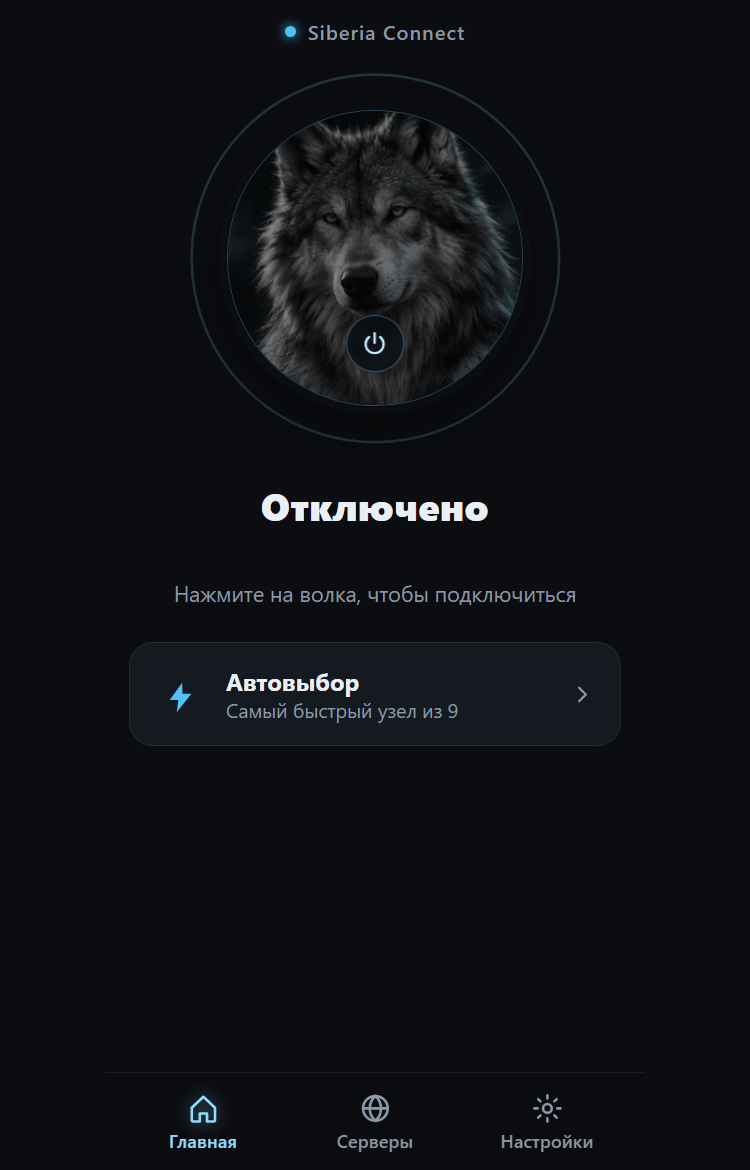
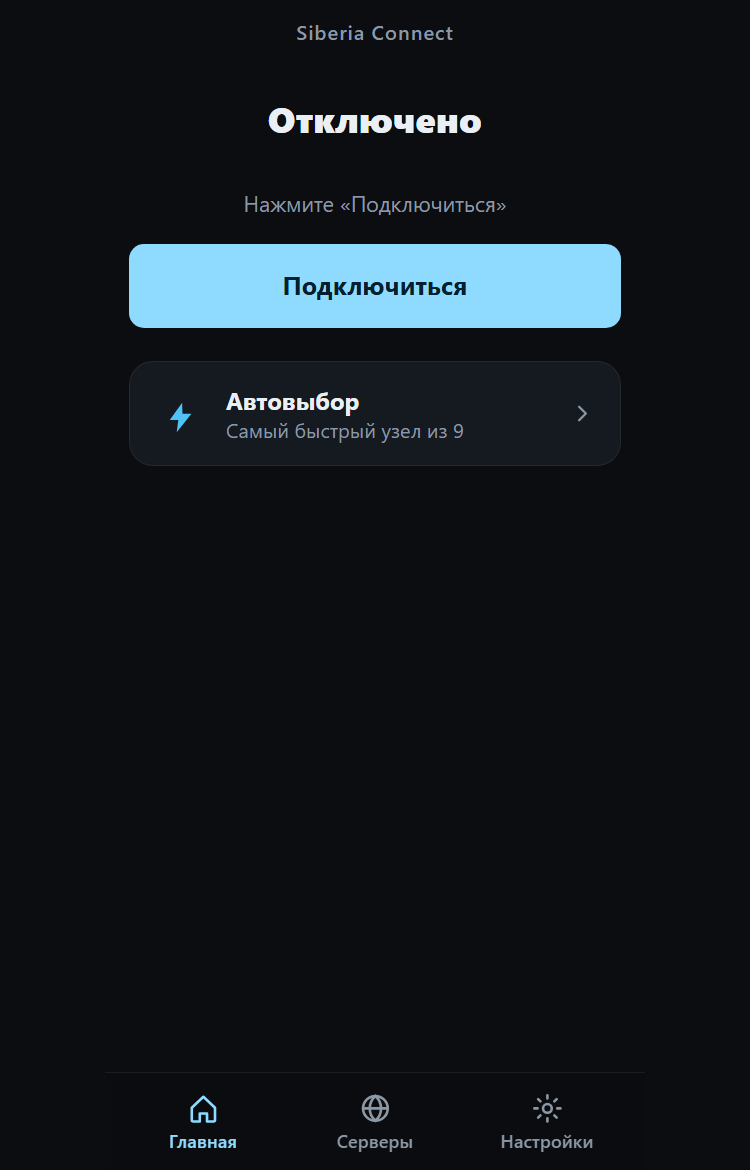
feat(android/ice): простая кнопка «Подключиться» вместо круга с волком и кольца
Статус над кнопкой, строка сервера под ней; «Отменить» / «Отключиться» / «Повторить»,
размер и место кнопки одинаковы во всех состояниях. Логика VPN не менялась.

diff --git a/V2rayNG/app/src/icetest/assets/ice/index.html b/V2rayNG/app/src/icetest/assets/ice/index.html
@@ -19,9 +19,8 @@ html,body{margin:0;background:var(--bg);color:var(--tx);font-family:system-ui,-a
 button{font:inherit;color:inherit;background:none;border:0;padding:0;margin:0;text-align:inherit;cursor:pointer}
 button:focus-visible,input:focus-visible{outline:2px solid var(--ice);outline-offset:2px}
 .app{max-width:560px;margin:0 auto;min-height:100vh;padding:.75rem 1rem calc(5.5rem + env(safe-area-inset-bottom,0px));position:relative}
-.app::before{content:"";position:fixed;inset:0;pointer-events:none;z-index:-1;
-  background:radial-gradient(70% 38% at 50% 0%,rgba(79,195,247,.13),transparent 70%),radial-gradient(60% 30% at 50% 100%,rgba(79,195,247,.06),transparent 70%)}
 .screen{display:none}.screen.on{display:block;animation:fade .22s ease}
+@keyframes spin{to{transform:rotate(360deg)}}
 @keyframes fade{from{opacity:.4;transform:translateY(4px)}to{opacity:1;transform:none}}
 h1{font-size:1.35rem;margin:.25rem 0 .75rem;font-weight:700;letter-spacing:.2px}
 h2{font-size:.78rem;font-weight:700;letter-spacing:.09em;text-transform:uppercase;color:var(--mut);margin:1.4rem .25rem .5rem}
@@ -29,38 +28,20 @@ h2{font-size:.78rem;font-weight:700;letter-spacing:.09em;text-transform:uppercas
 
 /* ───── главная ───── */
 .brand{display:flex;align-items:center;gap:.5rem;color:var(--mut);font-size:.85rem;font-weight:600;letter-spacing:.04em;justify-content:center;margin-bottom:.25rem}
-.brand i{display:inline-block;width:.45rem;height:.45rem;border-radius:50%;background:var(--ice2);box-shadow:0 0 8px var(--ice2)}
-.hero{display:flex;flex-direction:column;align-items:center;text-align:center;padding-top:.5rem}
-.ringwrap{position:relative;width:min(72vw,17.5rem);aspect-ratio:1;display:grid;place-items:center}
-.ring{position:absolute;inset:0;width:100%;height:100%;overflow:visible}
-.ring .base{fill:none;stroke:var(--iceDim);stroke-width:1.5;transition:stroke .5s}
-.ring .arc{fill:none;stroke:url(#ig);stroke-width:2.2;stroke-linecap:round;stroke-dasharray:0 653;opacity:0;transition:stroke-dasharray .7s ease,opacity .5s;transform-origin:110px 110px;filter:drop-shadow(0 0 6px rgba(143,219,255,.55))}
-.ringwrap[data-s=connecting] .arc{opacity:1;stroke-dasharray:190 463;animation:spin 2.6s linear infinite}
-.ringwrap[data-s=on] .arc{opacity:1;stroke-dasharray:653 0;animation:breathe 5s ease-in-out infinite}
-.ringwrap[data-s=error] .base{stroke:rgba(240,195,106,.55)}
-@keyframes spin{to{transform:rotate(360deg)}}
-@keyframes breathe{0%,100%{opacity:.75;filter:drop-shadow(0 0 4px rgba(143,219,255,.35))}50%{opacity:1;filter:drop-shadow(0 0 9px rgba(143,219,255,.7))}}
-.orb{position:relative;width:76%;aspect-ratio:1;border-radius:50%;overflow:hidden;background:#06121f;border:1px solid rgba(143,219,255,.25);
-  box-shadow:0 0 0 .35rem var(--bg),0 10px 40px rgba(0,0,0,.55);transition:box-shadow .5s,transform .15s}
-.orb:active{transform:scale(.97)}
-.orb img{width:100%;height:100%;object-fit:cover;transform:scale(1.2);display:block;transition:filter .6s;filter:saturate(.3) brightness(.55)}
-.ringwrap[data-s=connecting] .orb img{filter:saturate(.7) brightness(.8)}
-.ringwrap[data-s=on] .orb img{filter:saturate(1.05) brightness(1.05)}
-.ringwrap[data-s=on] .orb{box-shadow:0 0 0 .35rem var(--bg),0 0 38px rgba(79,195,247,.38)}
-.ringwrap[data-s=error] .orb img{filter:saturate(.35) brightness(.6) sepia(.4)}
-.orb .pw{position:absolute;left:50%;bottom:11%;transform:translateX(-50%);width:2.4rem;height:2.4rem;border-radius:50%;display:grid;place-items:center;
-  background:rgba(8,14,20,.78);border:1px solid rgba(143,219,255,.35);backdrop-filter:blur(2px)}
-.orb .pw svg{width:1.2rem;height:1.2rem}
-.st{font-size:1.6rem;font-weight:800;margin-top:1.15rem;letter-spacing:.2px}
+.hero{display:flex;flex-direction:column;align-items:stretch;padding-top:.5rem}
+.stat{text-align:center;padding:1.25rem .5rem .5rem;min-height:7.5rem}
+.cta{display:block;width:100%;height:3.5rem;border-radius:10px;background:var(--ice);color:#04202E;font-size:1.05rem;font-weight:700;text-align:center;line-height:1.2;padding:0 1rem;border:0}
+.cta:active{background:#7ccdf2}
+.st{font-size:1.5rem;font-weight:800;letter-spacing:.2px}
 .st.on{color:var(--ice)}.st.error{color:var(--warn)}
 .tm{font-variant-numeric:tabular-nums;font-size:1.15rem;color:var(--tx);margin-top:.2rem;min-height:1.6rem;letter-spacing:.06em}
-.hint{color:var(--mut);font-size:.9rem;margin-top:.15rem;max-width:22rem;min-height:1.25rem}
+.hint{color:var(--mut);font-size:.9rem;margin:.15rem auto 0;max-width:22rem;min-height:1.25rem}
 .err{margin-top:.75rem;padding:.75rem .9rem;border-radius:var(--r);background:rgba(240,195,106,.09);border:1px solid rgba(240,195,106,.28);
   color:#F6DDA6;font-size:.92rem;text-align:left;width:100%}
 .err .code{display:block;margin-top:.35rem;color:var(--mut);font-size:.8rem}
 .err .acts{display:flex;flex-wrap:wrap;gap:.5rem;margin-top:.65rem}
 .btn{display:inline-flex;align-items:center;justify-content:center;text-align:center;gap:.4rem;min-height:2.75rem;padding:.55rem 1.1rem;border-radius:999px;
-  font-weight:700;font-size:.95rem;background:linear-gradient(180deg,#9AE0FF,#58C8F8);color:#05202F;line-height:1.2}
+  font-weight:700;font-size:.95rem;background:var(--ice);color:#05202F;line-height:1.2}
 .btn.ghost{background:var(--panel2);color:var(--tx);border:1px solid var(--line);font-weight:600}
 .btn.small{min-height:2.4rem;padding:.4rem .95rem;font-size:.88rem}
 .btn[disabled]{opacity:.5}
@@ -140,7 +121,6 @@ h2{font-size:.78rem;font-weight:700;letter-spacing:.09em;text-transform:uppercas
 .nav button svg{width:1.45rem;height:1.45rem}
 .nav button span{font-size:.76rem;font-weight:600;line-height:1.15;overflow-wrap:break-word;word-break:normal;hyphens:manual;max-width:100%}
 .nav button.on{color:var(--ice)}
-.nav button.on svg{filter:drop-shadow(0 0 6px rgba(143,219,255,.6))}
 
 /* ───── шторка, тост ───── */
 .shade{position:fixed;inset:0;background:rgba(0,0,0,.6);z-index:40;display:none}
@@ -188,7 +168,6 @@ h2{font-size:.78rem;font-weight:700;letter-spacing:.09em;text-transform:uppercas
     <symbol id="i-home" viewBox="0 0 24 24"><path d="M4 11.5 12 4l8 7.5V20a1 1 0 0 1-1 1h-4.5v-5.5h-5V21H5a1 1 0 0 1-1-1z" fill="none" stroke="currentColor" stroke-width="1.8" stroke-linejoin="round"/></symbol>
     <symbol id="i-globe" viewBox="0 0 24 24"><g fill="none" stroke="currentColor" stroke-width="1.8" stroke-linecap="round"><circle cx="12" cy="12" r="8.5"/><path d="M3.5 12h17M12 3.5c2.6 2.4 3.9 5.2 3.9 8.5S14.600 18.100 12 20.500C9.400 18.100 8.100 15.300 8.100 12S9.400 5.900 12 3.500z"/></g></symbol>
     <symbol id="i-gear" viewBox="0 0 24 24"><g fill="none" stroke="currentColor" stroke-width="1.8" stroke-linecap="round" stroke-linejoin="round"><circle cx="12" cy="12" r="3"/><path d="M12 3v2.2M12 18.8V21M3 12h2.2M18.800 12H21M5.600 5.600l1.600 1.600M16.800 16.800l1.600 1.600M5.600 18.400l1.600-1.600M16.800 7.200l1.600-1.600"/></g></symbol>
-    <symbol id="i-power" viewBox="0 0 24 24"><g fill="none" stroke="#BFEAFF" stroke-width="2" stroke-linecap="round"><path d="M12 3.500v8"/><path d="M7.400 6.700a7.500 7.500 0 1 0 9.200 0"/></g></symbol>
     <symbol id="i-bolt" viewBox="0 0 24 24"><path d="M13 2.5 5 13.500h5.500L9.500 21.500 19 9.500h-5.800z" fill="currentColor"/></symbol>
     <symbol id="i-chev" viewBox="0 0 24 24"><path d="m9 6 6 6-6 6" fill="none" stroke="currentColor" stroke-width="2" stroke-linecap="round" stroke-linejoin="round"/></symbol>
     <symbol id="i-refresh" viewBox="0 0 24 24"><g fill="none" stroke="currentColor" stroke-width="2" stroke-linecap="round" stroke-linejoin="round"><path d="M20 12a8 8 0 1 1-2.500-5.800"/><path d="M20 4v4.500h-4.500"/></g></symbol>
@@ -198,26 +177,18 @@ h2{font-size:.78rem;font-weight:700;letter-spacing:.09em;text-transform:uppercas
 <div class="app" id="app">
 
   <section class="screen on" id="s-home" aria-label="Главная">
-    <div class="brand"><i></i>Siberia Connect</div>
+    <div class="brand">Siberia Connect</div>
     <div class="hero">
-      <div class="ringwrap" id="ringwrap" data-s="off">
-        <svg class="ring" viewBox="0 0 220 220" aria-hidden="true">
-          <defs><linearGradient id="ig" x1="0" y1="0" x2="1" y2="1"><stop offset="0" stop-color="#D5F4FF"/><stop offset="1" stop-color="#3FB8F5"/></linearGradient></defs>
-          <circle class="base" cx="110" cy="110" r="104"/>
-          <circle class="arc" id="arc" cx="110" cy="110" r="104"/>
-        </svg>
-        <button class="orb" id="orb" type="button" aria-label="Подключить">
-          <img id="wolf" alt="" src="" draggable="false">
-          <span class="pw"><svg><use href="#i-power"/></svg></span>
-        </button>
+      <div class="stat">
+        <div class="st" id="stTitle" role="status" aria-live="polite">Отключено</div>
+        <div class="tm" id="timer"></div>
+        <div class="hint" id="stHint"></div>
       </div>
-      <div class="st" id="stTitle" role="status" aria-live="polite">Отключено</div>
-      <div class="tm" id="timer"></div>
-      <div class="hint" id="stHint"></div>
-      <div class="err" id="errBox" hidden></div>
+      <button class="cta" id="cta" type="button">Подключиться</button>
     </div>
-    <div id="notice"></div>
     <button class="srv" id="srvRow" type="button"></button>
+    <div class="err" id="errBox" hidden></div>
+    <div id="notice"></div>
   </section>
 
   <section class="screen" id="s-servers" aria-label="Серверы"></section>
@@ -247,7 +218,6 @@ function plural(n,a,b,c){ var m=n%10,h=n%100; return (m===1&&h!==11)?a:(m>=2&&m<
 /* ───────── состояние ───────── */
 var S = { state:'off', err:'', since:0, off:0, servers:[], tab:'home', open:{}, lockUntil:0, switching:0, connAt:0,
           acct:'', incident:'', me:null, pingBusy:false, pingAt:0, build:null };
-var BASE = (nat('assetBase') || 'https://sc-assets.local/');
 
 /* ───────── узлы: флаг → страна, название ───────── */
 var CC = {NL:'Нидерланды',FI:'Финляндия',RU:'Россия',KZ:'Казахстан',DE:'Германия',SE:'Швеция',LV:'Латвия',AT:'Австрия',US:'США',LT:'Литва',
@@ -314,15 +284,14 @@ function syncState(){
 
 /* ───────── главная ───────── */
 function renderHome(){
-  var s=S.state, rw=$('ringwrap'); rw.setAttribute('data-s', s);
+  var s=S.state;
   var t=$('stTitle'); t.className='st '+(s==='on'?'on':s==='error'?'error':'');
   t.textContent = s==='on'?'Подключено':s==='connecting'?(S.switching?'Переключаю узел…':'Подключение…'):s==='error'?'Ошибка подключения':'Отключено';
-  var orb=$('orb');
-  orb.setAttribute('aria-label', s==='on'?'Отключить VPN':s==='connecting'?'Отменить подключение':'Подключить VPN');
+  var cta=$('cta'); cta.textContent = s==='on'?'Отключиться':s==='connecting'?'Отменить':s==='error'?'Повторить':'Подключиться';
   var cur = S.act || S.sel;
   var hint='';
-  if(s==='off') hint='Нажмите на волка, чтобы подключиться';
-  else if(s==='connecting') hint = (S.switching?'Подождите пару секунд':'Проверяем ключ и выбираем узел')+' · нажмите ещё раз, чтобы отменить';
+  if(s==='off') hint='Нажмите «Подключиться»';
+  else if(s==='connecting') hint = (S.switching?'Подождите пару секунд':'Проверяем ключ и выбираем узел')+'';
   else if(s==='on') hint = cur ? 'Трафик идёт через '+cur.country+(cur.title?' · '+cur.title:'') : 'Защищённое соединение установлено';
   else hint='';
   $('stHint').textContent=hint;
@@ -331,7 +300,7 @@ function renderHome(){
   if(s==='error'){
     eb.hidden=false;
     eb.innerHTML = esc(S.err)+(S.incident?'<span class="code">Код обращения: '+esc(S.incident)+'</span>':'')
-      +'<div class="acts"><button class="btn small" type="button" data-a="retry">Повторить</button><button class="btn small ghost" type="button" data-a="servers">Сменить сервер</button></div>';
+      +'<div class="acts"><button class="btn small ghost" type="button" data-a="servers">Сменить сервер</button></div>';
   } else eb.hidden=true;
 
   // карточка сервера
@@ -410,7 +379,7 @@ function renderServers(){
   }
   h+='<div class="cur"><span class="flag" aria-hidden="true" style="font-size:1.8rem">'+(S.autoOn&&!cur?'<svg><use href="#i-bolt"/></svg>':(cur?(cur.flag||'🌐'):'🌐'))+'</span><div><small>'+(on?'Подключено через':'Выбрано')+'</small><b>'
     +esc(S.autoOn&&!(on&&S.act)?'Автовыбор':(cur?cur.country+(cur.title?' · '+cur.title:''):'—'))+'</b>'
-    +(S.autoOn&&on&&S.act?'<span>Автовыбор · лучший из '+S.nodes.length+'</span>':(on?'':'<span>Нажмите на кнопку на главной, чтобы подключиться</span>'))+'</div></div>';
+    +(S.autoOn&&on&&S.act?'<span>Автовыбор · лучший из '+S.nodes.length+'</span>':(on?'':'<span>Нажмите «Подключиться» на главной</span>'))+'</div></div>';
   h+='<div class="list" role="radiogroup" aria-label="Выбор сервера">';
   if(S.auto){
     h+='<button type="button" class="item'+(S.autoOn?' sel':'')+'" data-pick="auto" role="radio" aria-checked="'+(S.autoOn?'true':'false')+'">'+'<span class="flag" aria-hidden="true"><svg><use href="#i-bolt"/></svg></span>'+'<div class="t"><b>Автовыбор</b><span>Самый быстрый узел из '+S.nodes.length+'</span></div>'+(S.autoOn?'<span class="badge soft">ВКЛЮЧЁН</span>':'')+'<span class="radio" aria-hidden="true"></span></button>';
@@ -440,7 +409,7 @@ function pick(guid){
   loadServers();
   if(was==='on'||was==='connecting'){ S.switching=Date.now()+12000; S.state='connecting'; S.connAt=Date.now(); }
   var nm = guid==='auto' ? 'Автовыбор' : ((S.nodes.filter(function(x){return x.guid===guid;})[0]||{}).country||'Сервер');
-  toast(was==='on'||was==='connecting' ? 'Переключаю на: '+nm : (nm+' выбран. Нажмите на волка, чтобы подключиться'));
+  toast(was==='on'||was==='connecting' ? 'Переключаю на: '+nm : (nm+' выбран. Нажмите «Подключиться»'));
   go('home');
 }
 function doPing(){
@@ -528,7 +497,7 @@ function refreshSub(){
 function openSheet(html){ $('sheet').innerHTML=html; $('sheet').classList.add('on'); $('shade').classList.add('on'); }
 function closeSheet(){ $('sheet').classList.remove('on'); $('shade').classList.remove('on'); appsState=null; }
 function openLogout(){
-  openSheet('<h3>Выйти из аккаунта?</h3><p>VPN отключится, ключ и список серверов удалятся с этого телефона. Войти снова можно по ключу или коду.</p><div class="acts"><button class="btn ghost" type="button" data-a="close">Отмена</button><button class="btn" type="button" data-a="logoutGo" style="background:linear-gradient(180deg,#FFB0B0,#FF7C7C)">Выйти</button></div>');
+  openSheet('<h3>Выйти из аккаунта?</h3><p>VPN отключится, ключ и список серверов удалятся с этого телефона. Войти снова можно по ключу или коду.</p><div class="acts"><button class="btn ghost" type="button" data-a="close">Отмена</button><button class="btn" type="button" data-a="logoutGo" style="background:#FF9C9C">Выйти</button></div>');
 }
 function openTv(){
   openSheet('<h3>Подключить телевизор</h3><p>Установите Siberia Connect TV на телевизор, откройте его — на экране появится код. Введите код здесь.</p><input class="inp" id="tvcode" inputmode="numeric" autocomplete="off" placeholder="Код с экрана ТВ" maxlength="12"><div class="acts"><button class="btn ghost" type="button" data-a="close">Отмена</button><button class="btn" type="button" data-a="tvGo">Подключить</button></div>');
@@ -617,7 +586,7 @@ document.addEventListener('click',function(e){
 });
 document.addEventListener('input',function(e){ if(e.target.id==='appq'&&appsState){ appsState.q=e.target.value; renderApps(); } });
 $('shade').addEventListener('click',closeSheet);
-$('orb').addEventListener('click',onPower);
+$('cta').addEventListener('click',onPower);
 $('srvRow').addEventListener('click',function(){ go('servers'); });
 
 /* возврат из фона: статус и таймер берутся из фактического состояния VPN, а не из памяти страницы */
@@ -639,7 +608,6 @@ setInterval(function(){
 
 /* ───────── старт ───────── */
 (function init(){
-  var w=$('wolf'); w.onerror=function(){ w.onerror=null; w.src=BASE+'wolf_first.jpg'; }; w.src=BASE+'wolf-idle.webp';
   S.build=natJSON('buildInfo',null);
   S.acct=nat('account')||'';
   loadServers();

diff --git a/docs/ice-ui-test/TESTER.md b/docs/ice-ui-test/TESTER.md
@@ -18,15 +18,15 @@
 ## Чек-лист (шаг → ожидаемо)
 | # | Шаг | Ожидаемый результат |
 |---|---|---|
-| 1 | Открыть «Siberia Connect Тест» | Графитовый экран, волк в круге с тонким голубым кольцом, надпись «Отключено», внизу вкладки «Главная · Серверы · Настройки» |
+| 1 | Открыть «Siberia Connect Тест» | Графитовый экран, сверху статус «Отключено», ниже широкая голубая кнопка «Подключиться», под ней строка сервера, внизу вкладки «Главная · Серверы · Настройки» |
 | 2 | Свернуть, открыть снова; потом смахнуть из «недавних» и открыть | Тот же новый интерфейс (не старый кабинет) |
-| 3 | Нажать на волка | «Подключение…», кольцо мягко вращается; затем «Подключено», кольцо замирает, идёт таймер, подпись «Трафик идёт через …» |
-| 4 | Быстро нажать на волка дважды | Ровно одно подключение (не «подключилось и сразу отключилось») |
-| 5 | Нажать на волка при «Подключено» | «Отключено», таймер исчезает |
-| 6 | Во время «Подключение…» нажать на волка | Отмена, «Отключено», VPN не включается позже |
+| 3 | Нажать «Подключиться» | Статус «Подключение…», кнопка «Отменить»; затем «Подключено», кнопка «Отключиться», идёт таймер, подпись «Трафик идёт через …» |
+| 4 | Быстро нажать «Подключиться» дважды | Ровно одно подключение (не «подключилось и сразу отключилось») |
+| 5 | Нажать «Отключиться» | «Отключено», кнопка снова «Подключиться», таймер исчезает |
+| 6 | Во время «Подключение…» нажать «Отменить» | Отмена, «Отключено», VPN не включается позже |
 | 7 | Подключено → свернуть на минуту → вернуться | Статус и таймер соответствуют реальности (таймер не сбросился) |
 | 8 | Подключено → выключить VPN из шторки Android / ключ-иконки → вернуться | Показано «Отключено» |
-| 9 | Включить режим полёта → нажать на волка | «Ошибка подключения» + «Повторить» / «Сменить сервер». Выключить режим → «Повторить» → подключается |
+| 9 | Включить режим полёта → нажать на волка | «Ошибка подключения», кнопка «Повторить» (того же размера и на том же месте) и «Сменить сервер» ниже. Выключить режим → «Повторить» → подключается |
 | 10 | Нажать на строку сервера на главной | Открывается «Серверы» одним нажатием |
 | 11 | «Серверы»: вверху видно, через какой узел идёт соединение | Блок «Подключено через …» / «Выбрано» |
 | 12 | Нажать на страну с несколькими узлами | Раскрывается список узлов с задержкой; одиночный узел выбирается сразу |
